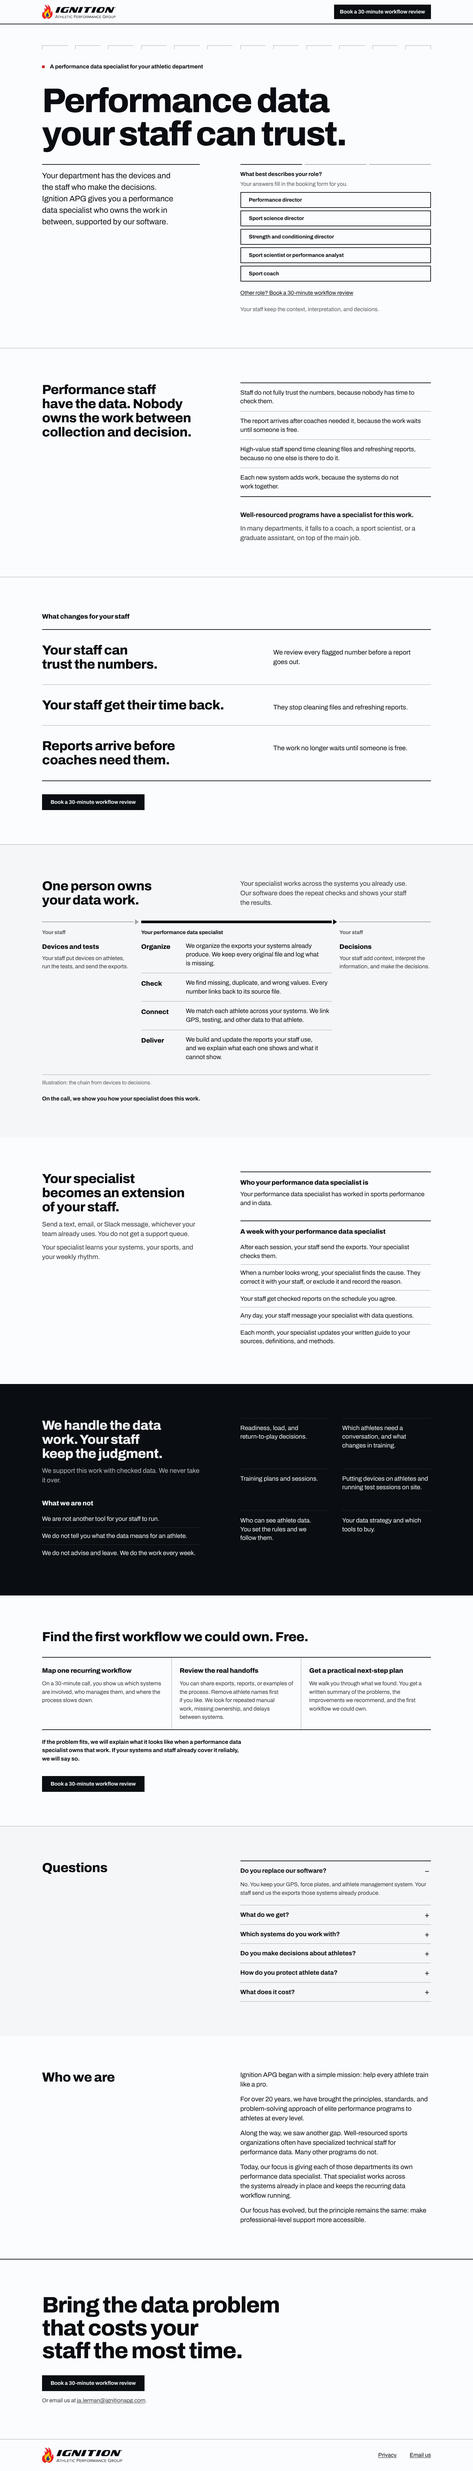
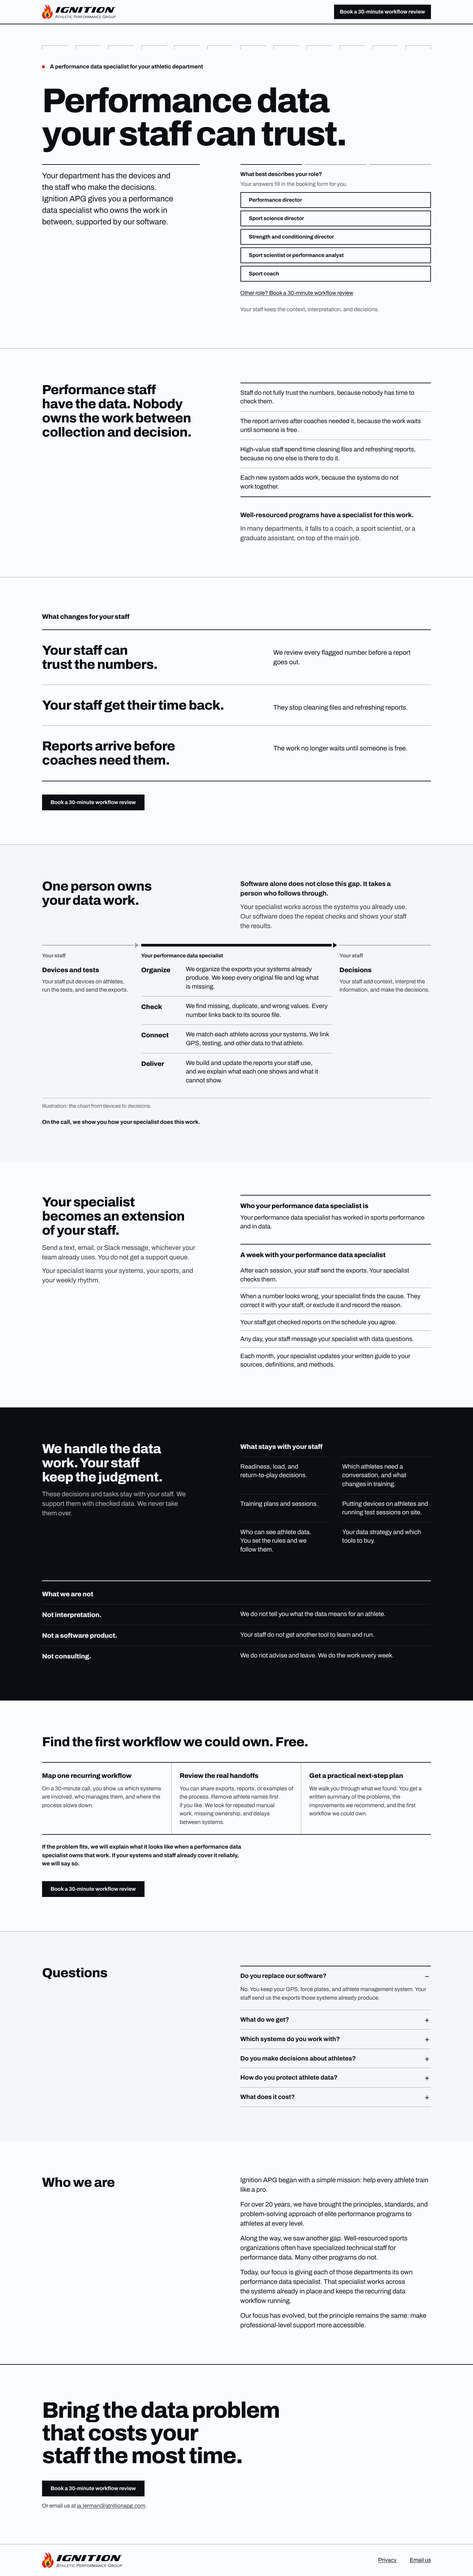
Draft: label the stays list, give What we are not its own row, add the software line
Jake's Y or N answers of 2026-11-13:
- The six lines sit under the label What stays with your staff.
- What we are not is a separate row with bold labels.
- Under the chain heading: software alone does not close this gap.
- Managed data operations stays off the site, saved for marketing.

Not live. Jake reviews before any merge.

Claude-Session: https://claude.ai/code/session_01YbS2qLg3YpJKDbeEJkZvbn

diff --git a/src/content/site.ts b/src/content/site.ts
@@ -98,7 +98,11 @@ export const outcomes = {
 // The four lines must match the Items in docs/MESSAGE.md section 3 (scripts/check-claims.mjs).
 export const chain = {
   heading: "One person owns your data work.",
-  text: "Your specialist works across the systems you already use. Our software does the repeat checks and shows your staff the results.",
+  // The first line says why a person is needed (Jake, 2026-11-13).
+  text: [
+    "Software alone does not close this gap. It takes a person who follows through.",
+    "Your specialist works across the systems you already use. Our software does the repeat checks and shows your staff the results.",
+  ],
   caption: "Illustration: the chain from devices to decisions.",
   staff: "Your staff",
   specialist: "Your performance data specialist",
@@ -147,14 +151,16 @@ export const specialist = {
 
 export const staysWithStaff = {
   heading: "We handle the data work. Your staff keep the judgment.",
-  text: "We support this work with checked data. We never take it over.",
-  // What we are not (2026-11-13). Three plain limits beside the six confirmed lines.
+  text: "These decisions and tasks stay with your staff. We support them with checked data. We never take them over.",
+  // The label over the six confirmed lines, so nobody reads them as things we do (Jake, 2026-11-13).
+  listLabel: "What stays with your staff",
+  // What we are not (Jake, 2026-11-13). Its own row under the six lines.
   not: {
     heading: "What we are not",
     items: [
-      "We are not another tool for your staff to run.",
-      "We do not tell you what the data means for an athlete.",
-      "We do not advise and leave. We do the work every week.",
+      { label: "Not interpretation.", text: "We do not tell you what the data means for an athlete." },
+      { label: "Not a software product.", text: "Your staff do not get another tool to learn and run." },
+      { label: "Not consulting.", text: "We do not advise and leave. We do the work every week." },
     ],
   },
   items: [

diff --git a/docs/DESIGN.md b/docs/DESIGN.md
@@ -55,9 +55,9 @@ There is one accent. There are no gradients, no shadows, and no rounded corners.
 | Problem rows | Heading left. Symptoms as rows with hairlines on the right, between 2 px ink rules. Below them the contrast: one bold line, then one neutral line (2026-11-13). No button here. |
 | Sticky headings (2026-10-13) | From 64rem only, and only in Problem, the specialist section, and Who we are, where the right column is much longer. The left block pins 96 px from the top, under the header, and lets go at its section end. No script. |
 | Outcome rows ("What changes for your staff", 2026-11-13) | A full-width block after the problem section. The heading is a small label (lead size, 800 weight). Three rows between 2 px ink rules, with hairlines between rows: the outcome at section-heading size in columns 1 to 6, its supporting line at lead size in columns 8 to 12. One column below 64rem. Then the booking button. It is the only place where a third-level heading is larger than its section heading, because the outcomes are the statement. |
-| The chain ("One person owns your data work.", 2026-11-13) | Replaces the grouped list. On the quiet band. Heading left and lead text right, then a figure across the grid: three parts on one line. The two ends ("Your staff") sit in columns 1 to 3 and 10 to 12 under a 2 px `rule-2` line, with a muted owner label, a small heading, and one neutral line. The middle ("Your performance data specialist") sits in columns 4 to 9 under an 8 px ink bar, with an ink owner label and four rows: the verb as a small heading, then its one line, with hairlines between rows. A small arrowhead joins each part to the next. Below 64rem the parts stack and the arrowheads point down. The caption "Illustration: the chain from devices to decisions." sits under a hairline in muted 16 px text. No numbers, no icons, no fills. Then the closing line in bold. |
+| The chain ("One person owns your data work.", 2026-11-13) | Replaces the grouped list. On the quiet band. Heading left and two lead lines right (the first bold, the second neutral), then a figure across the grid: three parts on one line. The two ends ("Your staff") sit in columns 1 to 3 and 10 to 12 under a 2 px `rule-2` line, with a muted owner label, a small heading, and one neutral line. The middle ("Your performance data specialist") sits in columns 4 to 9 under an 8 px ink bar, with an ink owner label and four rows: the verb as a small heading, then its one line, with hairlines between rows. A small arrowhead joins each part to the next. Below 64rem the parts stack and the arrowheads point down. The caption "Illustration: the chain from devices to decisions." sits under a hairline in muted 16 px text. No numbers, no icons, no fills. Then the closing line in bold. |
 | Specialist section (2026-10-13) | Heading and two short paragraphs left (2026-11-13).  On the right, two groups under 2 px ink rules: "Who your performance data specialist is" (plain list) and "A week with your performance data specialist" (ordered list, hairline between rows, no visible numerals). No photos, avatars, faces, or icons. |
-| Ink band ("We handle the data work") | The one dark section. Heading and text left on ink. Under them, the small heading "What we are not" and three lines with `ink-2` hairlines between them (2026-11-13). Six items in two columns on the right, each item with a hairline above it. |
+| Ink band ("We handle the data work") | The one dark section. Heading and text left on ink. On the right, the small heading "What stays with your staff" over six items in two columns, each with an `ink-2` hairline above it. Below both, under a 2 px `on-ink` rule, the small heading "What we are not" and three rows: a bold label in columns 1 to 5 and its sentence in columns 7 to 12, with `ink-2` hairlines between rows (2026-11-13). One column below 64rem. |
 | Step columns ("Find the first workflow we could own. Free.") | Three columns divided by vertical hairlines. Titles carry the order, with no numerals. The closing line sits under a rule. Then the booking button: the one mid-page button, so phone visitors can book at the moment they decide. Stacks to rows on phones. |
 | Questions | Heading left. On the right, native `<details>` rows divided by hairlines, all closed on load (Jake, 2026-10-13). Each summary is at least 56 px tall with a "+" or "−" marker as text, the red focus ring, and hover and press styles. Answers stay in the page HTML. |
 | Who we are | Heading left (sticky from 64rem), five short paragraphs right (Jake, 2026-10-13). |

diff --git a/docs/MESSAGE.md b/docs/MESSAGE.md
@@ -18,7 +18,8 @@ Jake chose seven ideas from the copy brainstorm, after the 3000-foot view in `do
 - **Section 3 is now the chain.** It shows who owns each part of the work: the staff own the devices and tests and the decisions, and the specialist owns the middle. The heading is "One person owns your data work." The "What you can hand us" list is one line per verb, inside the chain.
 - **The four verbs are Organize, Check, Connect, Deliver** everywhere (Jake, 2026-11-13). They replace Collect, Check, Connect, Explain.
 - **Section 3b** has a new heading, taken from Jake's own first sentence: "Your specialist becomes an extension of your staff." Lines now said in section 3 are gone from 3b.
-- **Section 4** adds three "What we are not" lines.
+- **Section 4:** the six lines now sit under their own label, "What stays with your staff", and the text above them is plainer. Three "What we are not" lines sit in their own row below, each with a bold label (Jake approved these words on 2026-11-13).
+- **Section 3** opens with why a person is needed: "Software alone does not close this gap. It takes a person who follows through." (Jake approved, 2026-11-13).
 - **Said once:** "works across the systems you already use" and "our software does the repeat checks" each appear in one section now. "Who we are" paragraph three is shorter, because the problem section makes the same point.
 
 ## What changed in v8 (Jake, 2026-10-13, round 4)
@@ -133,6 +134,7 @@ On the page this section is the chain, under the heading "One person owns your d
 | Element | Copy |
 |---|---|
 | Heading | One person owns your data work. |
+| Text | Software alone does not close this gap. It takes a person who follows through. |
 | Text | Your specialist works across the systems you already use. Our software does the repeat checks and shows your staff the results. |
 | Owner label | Your staff |
 | Start | Devices and tests |
@@ -177,17 +179,21 @@ A role, not a person: no name, no photo, no avatar, no icon. The week is an orde
 | Element | Copy |
 |---|---|
 | Heading | We handle the data work. Your staff keep the judgment. |
-| Text | We support this work with checked data. We never take it over. |
-| Subheading | What we are not |
-| Not | We are not another tool for your staff to run. |
-| Not | We do not tell you what the data means for an athlete. |
-| Not | We do not advise and leave. We do the work every week. |
+| Text | These decisions and tasks stay with your staff. We support them with checked data. We never take them over. |
+| List label | What stays with your staff |
 | Item | Readiness, load, and return-to-play decisions. |
 | Item | Which athletes need a conversation, and what changes in training. |
 | Item | Training plans and sessions. |
 | Item | Putting devices on athletes and running test sessions on site. |
 | Item | Who can see athlete data. You set the rules and we follow them. |
 | Item | Your data strategy and which tools to buy. |
+| Subheading | What we are not |
+| Not label | Not interpretation. |
+| Not | We do not tell you what the data means for an athlete. |
+| Not label | Not a software product. |
+| Not | Your staff do not get another tool to learn and run. |
+| Not label | Not consulting. |
+| Not | We do not advise and leave. We do the work every week. |
 
 This list gets the same visual weight as section 3. The six items use the confirmed wording without change. They give away no method, and they answer the director's biggest fear, so they stay in full.
 

diff --git a/docs/STATUS.md b/docs/STATUS.md
@@ -21,15 +21,15 @@ Last updated: 2026-11-13
   - The chain replaces the "What you can hand us" list: staff own the devices and tests and the decisions, the specialist owns Organize, Check, Connect, Deliver. Labelled "Illustration". One line per verb.
   - The four verbs are Organize, Check, Connect, Deliver everywhere.
   - Specialist section: new heading "Your specialist becomes an extension of your staff.", shorter text, and the written-guide line.
-  - Dark band: three "What we are not" lines.
+  - Dark band: the six lines under the label "What stays with your staff", then "What we are not" in its own row.
   - "Who we are" paragraph three is shorter.
 - **Approved by Jake:** the outcomes section and its button, the timing outcome, one line per verb, the verb change, the guide line, and all seven ideas.
-- **Waiting on Jake (draft wording he has not read yet):**
+- **Approved by Jake in a Y or N round (2026-11-13), now in the draft:** the label "What stays with your staff" and the plainer text above it, "What we are not" as its own row with bold labels ("Not interpretation", "Not a software product", "Not consulting"), and the line "Software alone does not close this gap. It takes a person who follows through." under the chain heading. The second outcome's supporting line stays as it is. "Managed data operations" stays off the site and is saved for marketing.
+- **Waiting on Jake (draft wording he has seen in screenshots and not yet approved line by line):**
   - The four new symptoms and the two contrast lines.
   - The new hero text.
   - The chain: its two end lines, its lead text, and the caption.
   - The third outcome's supporting line: "The work no longer waits until someone is free."
-  - The three "What we are not" lines.
   - The new specialist heading and the shorter "Who we are" paragraph three.
   - Whether the page needs a line for departments with no AMS.
 - **Checks on the draft:** `npm run check` passes (copy and claims). `node scripts/audit.mjs` passes: axe 0 violations, Lighthouse 100 on home and privacy, no sideways scroll. Kill AI Slop scan: no signals. `docs/final/home-1440.png` and `home-390.png` show the draft.

diff --git a/docs/BRIEF.md b/docs/BRIEF.md
@@ -76,7 +76,14 @@ These override everything below where they conflict. Jake approved the ideas and
    6. Each point is said once. Repeated lines were cut from the specialist section and "Who we are".
    7. The hero text leads with the gap.
 7. **Week list, last line** (approved): "Each month, your specialist updates your written guide to your sources, definitions, and methods."
-8. **Rejected on purpose:** "without another AMS", "no dashboards", any hours-per-week figure, "before morning lift", and any line about readiness reports. They break the hard rules or are not true.
+8. **Approved by Jake, Y or N round (2026-11-13):**
+   - The six "stays with your staff" lines carry the label "What stays with your staff". The text above them is "These decisions and tasks stay with your staff. We support them with checked data. We never take them over."
+   - "What we are not" is its own row under the six lines: "Not interpretation. We do not tell you what the data means for an athlete." "Not a software product. Your staff do not get another tool to learn and run." "Not consulting. We do not advise and leave. We do the work every week." Jake chose "Not interpretation" over "Not analytics".
+   - Under the chain heading: "Software alone does not close this gap. It takes a person who follows through."
+   - The second outcome's supporting line stays "They stop cleaning files and refreshing reports." for now.
+   - "High-value staff" stays in the symptom line. "Expensive people doing clerical work" is not used.
+   - "Managed data operations" and "the unglamorous middle" stay off the site. Jake wants them saved for marketing. They are in `docs/POSITIONING.md`.
+9. **Rejected on purpose:** "without another AMS", "no dashboards", any hours-per-week figure, "before morning lift", and any line about readiness reports. They break the hard rules or are not true.
 
 ## Changes from Jake, 2026-10-16 (hero picker, "How it starts", hero words)
 

diff --git a/docs/POSITIONING.md b/docs/POSITIONING.md
@@ -2,6 +2,8 @@
 
 Saved on 2026-11-13 at Jake's request. He called this explanation clear and concise, and wants it kept for reference.
 
+**Saved for marketing (Jake, 2026-11-13).** "Managed data operations" and "the unglamorous middle" stay off the website. Jake wants them kept for marketing use elsewhere.
+
 **How to use this file.** It is an internal reference for what Ignition APG does and why. It is not page copy. Any line that moves to the site must still pass the rules in `CLAUDE.md` and trace to `docs/BRIEF.md`. For example, the word "prediction" below is fine here and is not allowed on the site.
 
 ---
